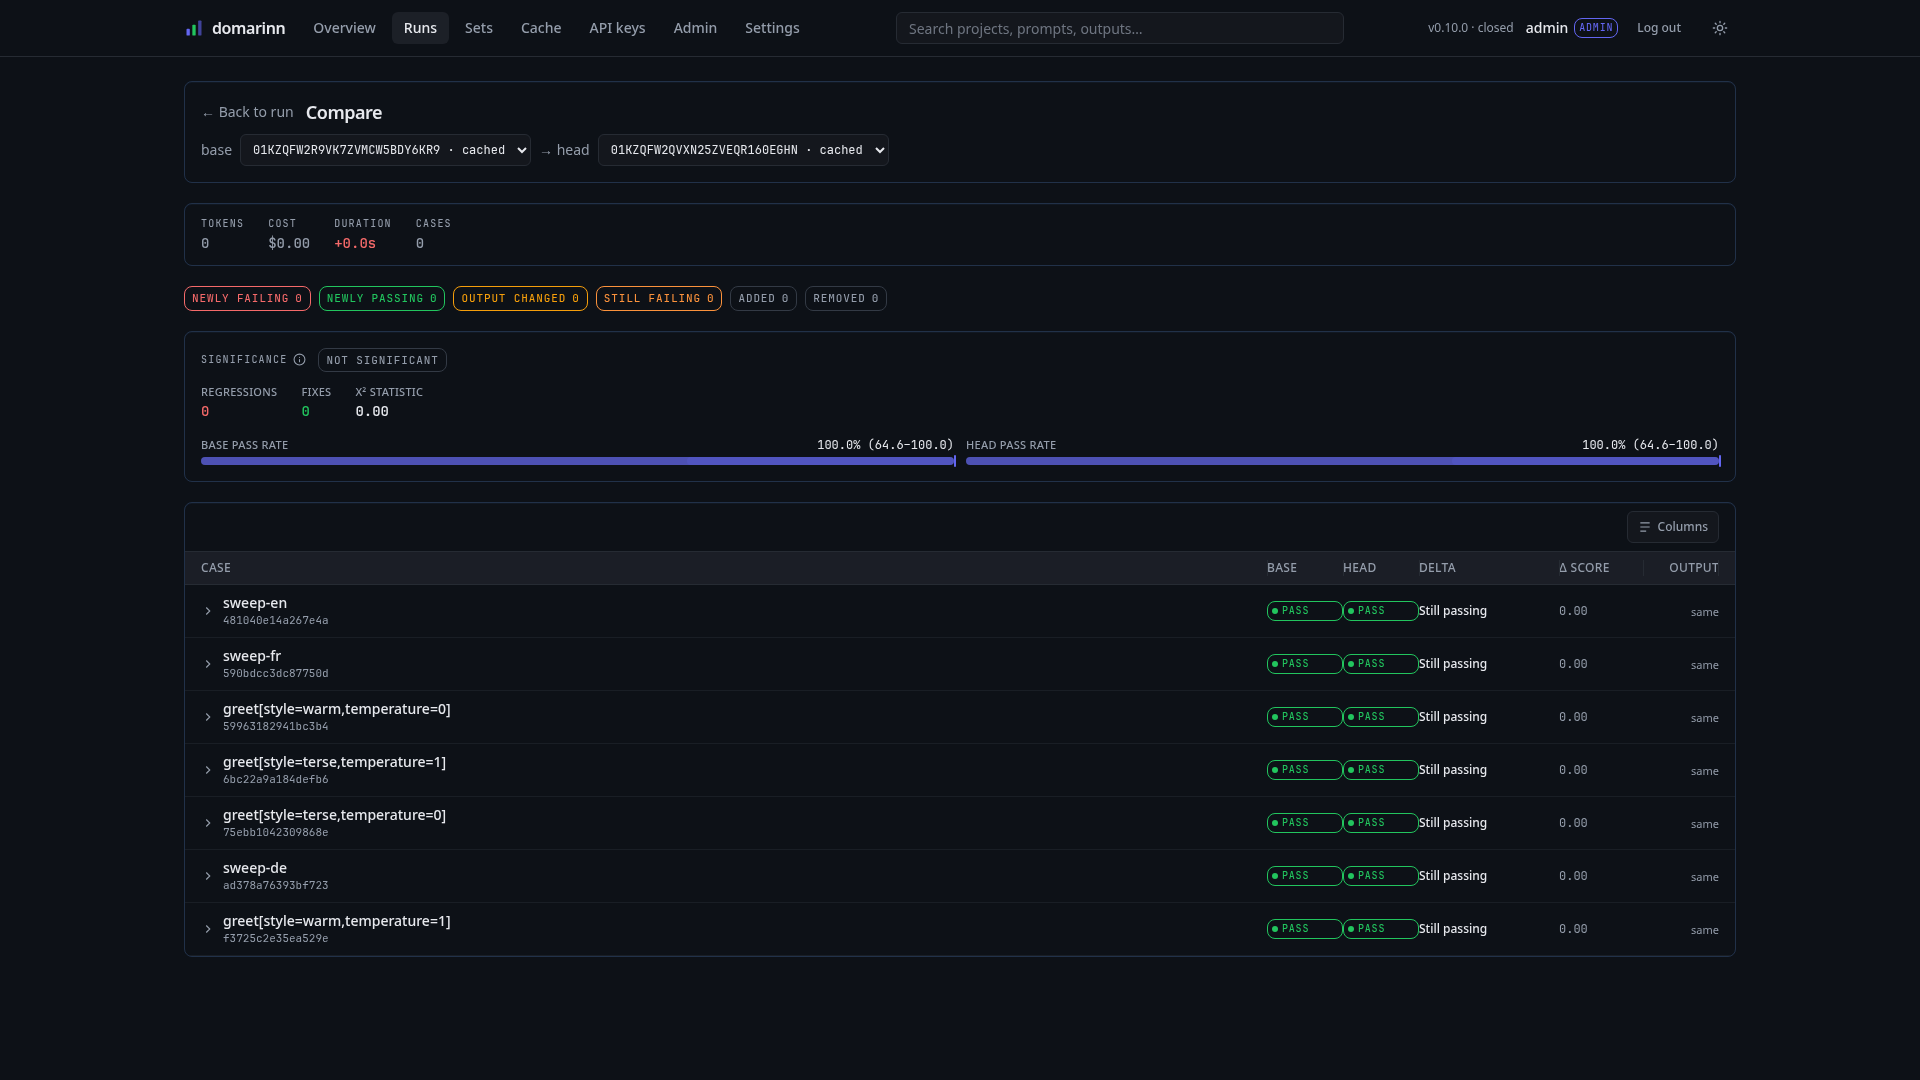
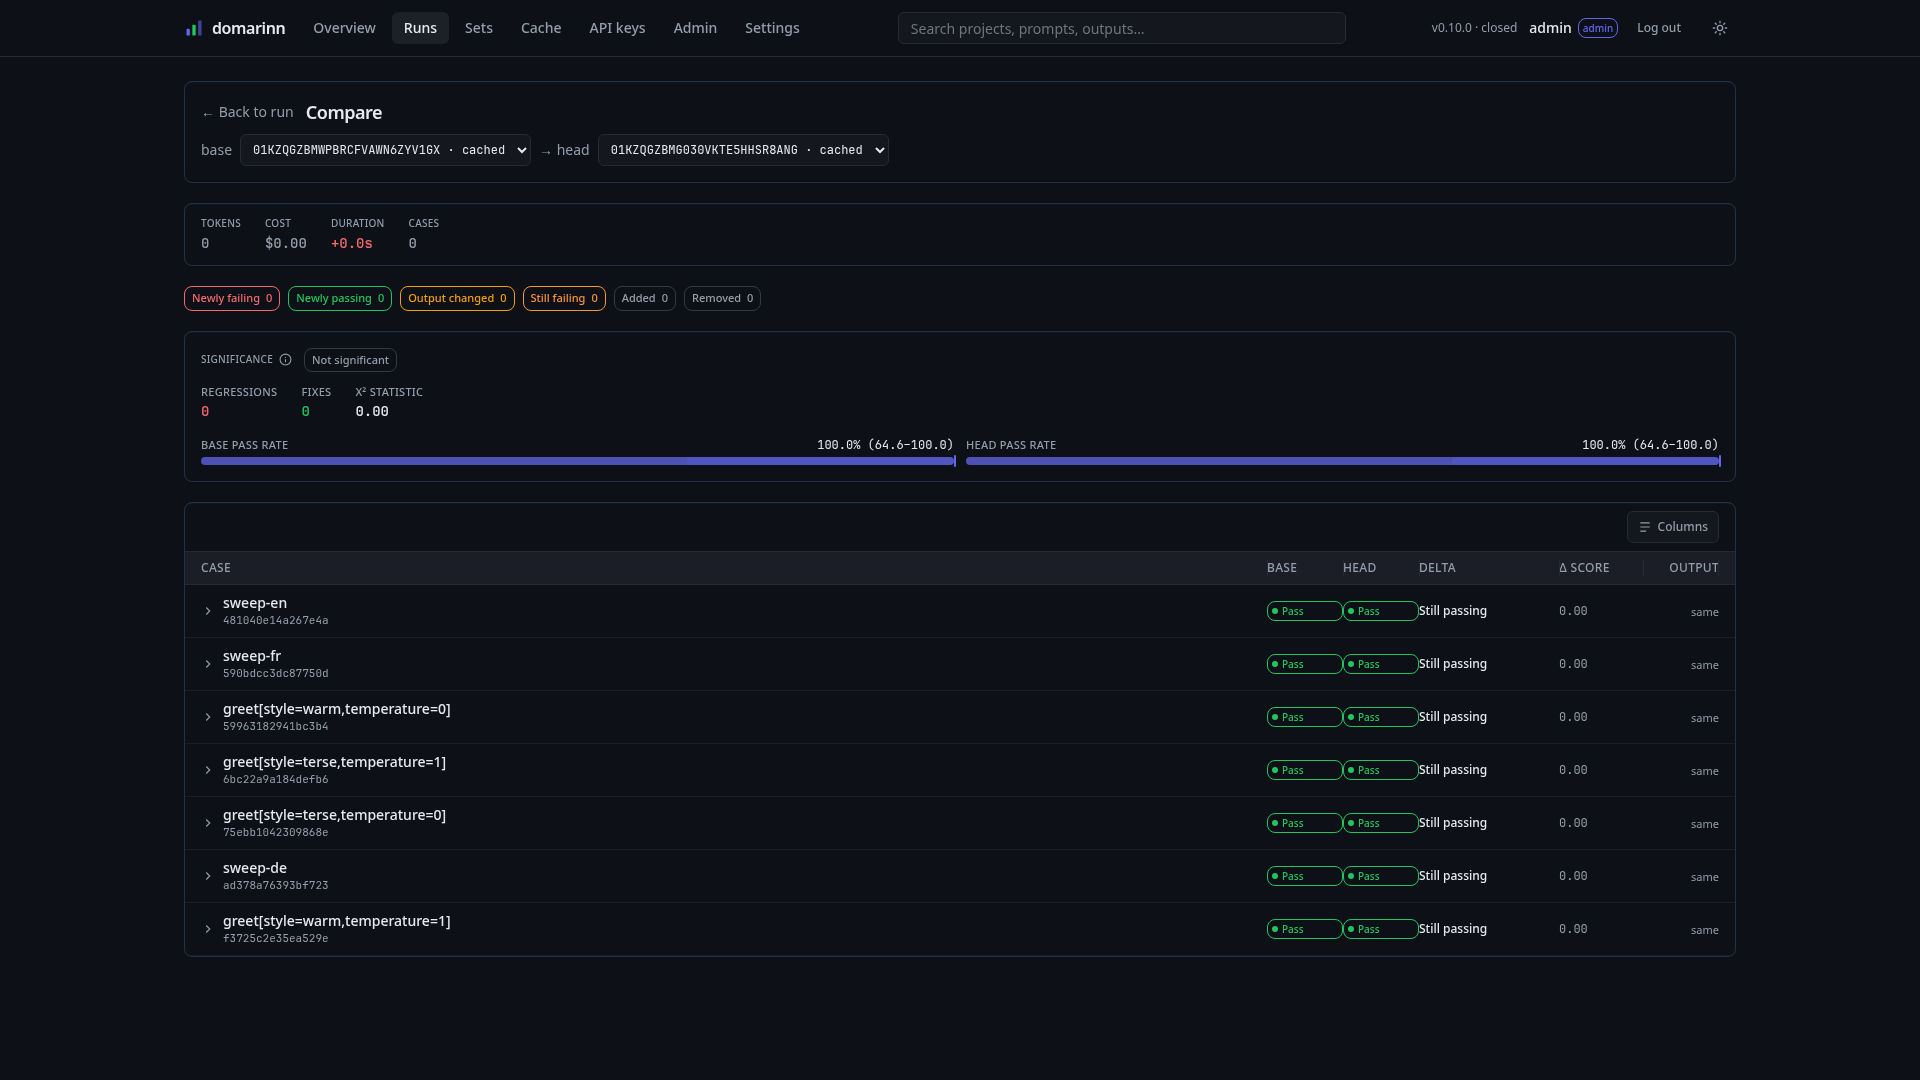
revert(web): put pills and eyebrows back in the page font
Adopting the outline recipe changed three things about pill typography at
once — family, case and tracking — and the result reads louder than the
content it labels. Put it back: pills render in the page font, exactly as
authored.

Case is the part that mattered most. A pill carries content — a tag, a
branch, a digest, a provider id — and uppercasing it in the stylesheet
makes the page state something the data does not. Eleven call sites had
already opted back out one at a time to stay truthful, which was the
signal that the default was wrong rather than that those values were
special. `CI` still reads as `CI` because the source says so, and `local`
now reads as `local` rather than shouting.

Section eyebrows lose the monospace but keep their label role: still
small, uppercased and tracked, now in the page font. An eyebrow names a
field rather than carrying a value, so recasing it invents nothing.

Note this is not the pre-migration state for the page headings — those
were plain `text-sm font-semibold` before, and are left as eyebrows here.
Only the font changed, which is what was asked for.

The `normal-case` opt-outs are left in place. They are inert now rather
than wrong, and removing them is a separate tidy-up.

diff --git a/web/src/components/ui/chrome.test.tsx b/web/src/components/ui/chrome.test.tsx
@@ -32,15 +32,17 @@ describe("Chip", () => {
       "border-fail",
       "text-fail",
       "bg-transparent",
-      "font-mono",
-      "uppercase",
     );
   });
 
-  it("allows case-sensitive labels to opt out of visual uppercasing", () => {
-    render(<Chip className="normal-case">shaAbC</Chip>);
-    expect(screen.getByText("shaAbC")).toHaveClass("normal-case");
-    expect(screen.getByText("shaAbC")).not.toHaveClass("uppercase");
+  it("shows its label in the page font, exactly as authored", () => {
+    // Chips carry content — tags, branches, digests, provider ids — so the
+    // label has to survive verbatim. Recasing it in the stylesheet made a
+    // handful of call sites opt back out one at a time to stay truthful.
+    render(<Chip tone="info">shaAbC</Chip>);
+    const chip = screen.getByText("shaAbC");
+    expect(chip).not.toHaveClass("uppercase");
+    expect(chip).not.toHaveClass("font-mono");
   });
 });
 
@@ -61,14 +63,14 @@ describe("StatBlock", () => {
     expect(screen.getByText("$1.00").parentElement).not.toHaveClass("rounded-lg");
   });
 
-  it("renders its existing label as an operator eyebrow", () => {
+  it("renders its existing label as a small-caps eyebrow", () => {
+    // The eyebrow keeps its label role — small, tracked, uppercased — but in
+    // the page font. Unlike a chip it names a field rather than carrying a
+    // value, so recasing it invents nothing.
     render(<StatBlock label="Tokens">123</StatBlock>);
-    expect(screen.getByText("Tokens")).toHaveClass(
-      "font-mono",
-      "text-[10px]",
-      "uppercase",
-      "tracking-[0.12em]",
-    );
+    const eyebrow = screen.getByText("Tokens");
+    expect(eyebrow).toHaveClass("text-[10px]", "uppercase", "tracking-wide");
+    expect(eyebrow).not.toHaveClass("font-mono");
   });
 });
 

diff --git a/web/src/components/ui/chrome.ts b/web/src/components/ui/chrome.ts
@@ -12,7 +12,7 @@ export type OutlineTone =
   | "skip";
 
 export const OUTLINE_LABEL_BASE =
-  "inline-flex items-center gap-1 rounded-[8px] border bg-transparent font-mono font-medium uppercase tracking-[0.08em] leading-none transition-colors";
+  "inline-flex items-center gap-1 rounded-[8px] border bg-transparent font-medium leading-none transition-colors";
 
 export const OUTLINE_LABEL_TONE: Record<OutlineTone, string> = {
   neutral: "border-border-strong text-muted",

diff --git a/web/src/pages/SearchPage.tsx b/web/src/pages/SearchPage.tsx
@@ -111,7 +111,7 @@ export function SearchPage() {
 function Section({ title, children }: { title: string; children: React.ReactNode }) {
   return (
     <section>
-      <h2 className="mb-2 font-mono text-[10px] font-medium uppercase tracking-[0.12em] text-muted">
+      <h2 className="mb-2 text-[10px] font-medium uppercase tracking-wide text-muted">
         {title}
       </h2>
       <div className={cn(CHROME_FRAME, "divide-y divide-border overflow-hidden")}>

diff --git a/web/src/pages/compare/AssertTransitions.tsx b/web/src/pages/compare/AssertTransitions.tsx
@@ -21,7 +21,7 @@ export function AssertTransitions({ flips }: { flips: AssertFlip[] }) {
       data-testid="assert-transitions"
       className={cn(CHROME_FRAME, "px-3 py-2")}
     >
-      <div className="mb-1.5 font-mono text-[10px] font-medium uppercase tracking-[0.12em] text-muted">
+      <div className="mb-1.5 text-[10px] font-medium uppercase tracking-wide text-muted">
         Assertion changes
       </div>
       <ul className="space-y-1.5">

diff --git a/web/src/pages/compare/McNemarPanel.tsx b/web/src/pages/compare/McNemarPanel.tsx
@@ -95,7 +95,7 @@ export function McNemarPanel({ stats }: { stats: CompareStats }) {
     >
       <div className="flex flex-wrap items-center gap-3">
         <div className="flex items-center gap-1.5">
-          <h2 className="font-mono text-[10px] font-medium uppercase tracking-[0.12em] text-muted">
+          <h2 className="text-[10px] font-medium uppercase tracking-wide text-muted">
             Significance
           </h2>
           <Tooltip

diff --git a/web/src/pages/AdminPage.tsx b/web/src/pages/AdminPage.tsx
@@ -344,7 +344,7 @@ function CreateUserForm({ onError }: { onError: (message: string) => void }) {
 
   return (
     <Card as="section">
-      <h2 className="font-mono text-[10px] font-medium uppercase tracking-[0.12em] text-muted">
+      <h2 className="text-[10px] font-medium uppercase tracking-wide text-muted">
         Create user
       </h2>
       <form onSubmit={onSubmit} className="mt-3 flex flex-wrap items-end gap-3">

diff --git a/web/src/pages/compare/ConfigDrift.tsx b/web/src/pages/compare/ConfigDrift.tsx
@@ -79,7 +79,7 @@ export function ConfigDrift({
       className={cn(CHROME_FRAME, "space-y-3 p-4")}
     >
       <div className="flex flex-wrap items-center justify-between gap-3">
-        <h2 className="font-mono text-[10px] font-medium uppercase tracking-[0.12em] text-muted">
+        <h2 className="text-[10px] font-medium uppercase tracking-wide text-muted">
           Config drift
         </h2>
         <SegmentedControl

diff --git a/web/src/pages/SettingsPage.tsx b/web/src/pages/SettingsPage.tsx
@@ -161,7 +161,7 @@ export function SettingsPage() {
 function Card({ title, children }: { title: string; children: ReactNode }) {
   return (
     <ChromeCard as="section">
-      <h2 className="mb-3 font-mono text-[10px] font-medium uppercase tracking-[0.12em] text-muted">
+      <h2 className="mb-3 text-[10px] font-medium uppercase tracking-wide text-muted">
         {title}
       </h2>
       {children}

diff --git a/web/src/components/ui/StatBlock.tsx b/web/src/components/ui/StatBlock.tsx
@@ -42,7 +42,7 @@ export function StatBlock({
       )}
       title={title}
     >
-      <div className="font-mono text-[10px] font-medium uppercase tracking-[0.12em] text-muted">
+      <div className="text-[10px] font-medium uppercase tracking-wide text-muted">
         {label}
       </div>
       <div className={cn("mt-0.5 text-sm font-medium tabular-nums", tone)}>

diff --git a/web/src/pages/KeysPage.tsx b/web/src/pages/KeysPage.tsx
@@ -100,7 +100,7 @@ export function KeysPage() {
       <PageHeader />
 
       <Card as="section">
-        <h2 className="font-mono text-[10px] font-medium uppercase tracking-[0.12em] text-muted">
+        <h2 className="text-[10px] font-medium uppercase tracking-wide text-muted">
           Create a key
         </h2>
         <p className="mt-1 text-sm text-muted">

diff --git a/web/src/pages/CacheStatsPage.tsx b/web/src/pages/CacheStatsPage.tsx
@@ -72,7 +72,7 @@ export function CacheStatsPage() {
       </Card>
 
       <Card>
-        <h2 className="font-mono text-[10px] font-medium uppercase tracking-[0.12em] text-muted">
+        <h2 className="text-[10px] font-medium uppercase tracking-wide text-muted">
           Prune cache
         </h2>
         <p className="mt-1 text-sm text-muted">
